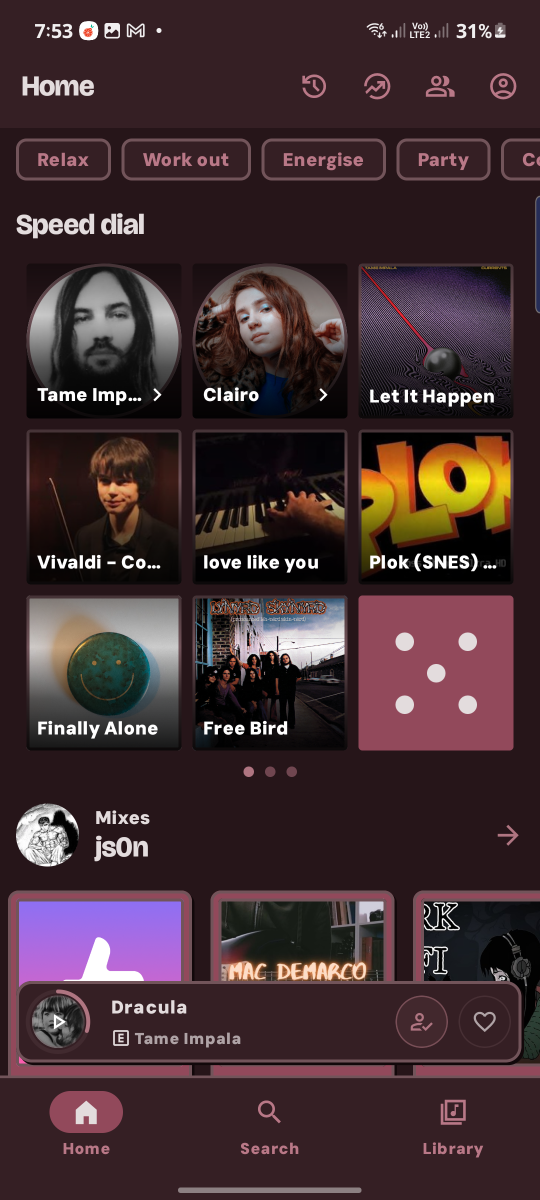
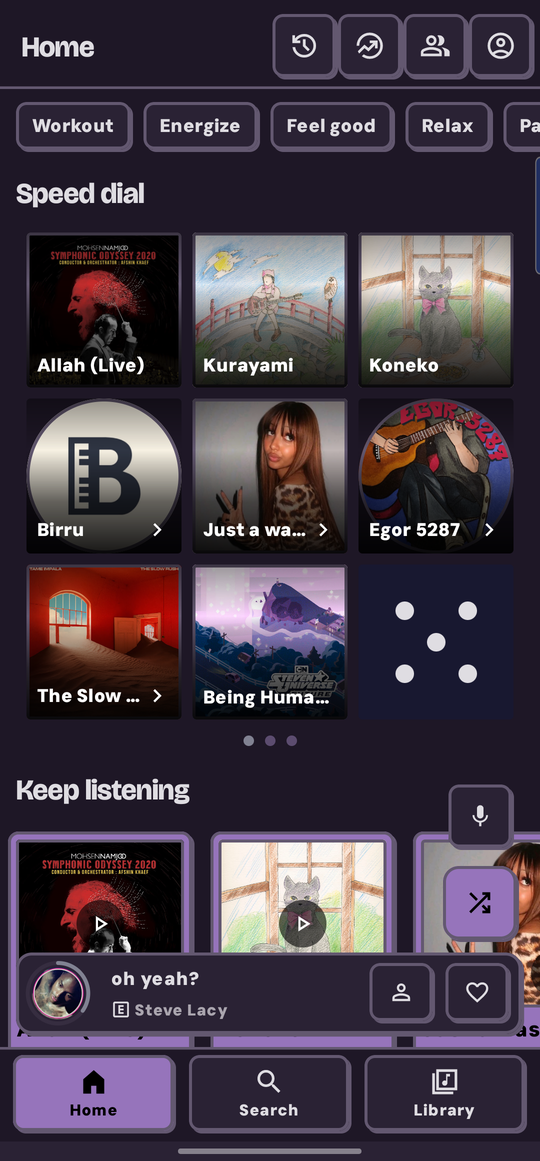
feat: new mark, and screenshots that match the app
The old R was a flat glyph on a pink field - the one thing in the whole
project not wearing the design language it exists to show off. The mark
is now built the way every control in the app is: a flat face with a
hard, zero-blur shadow offset down and to the right. White R, black
shadow, nuclear's pink behind it.

Both the glyph and its shadow sit inside the 72dp safe zone, so no
launcher mask can clip either. The themed (monochrome) variant drops the
shadow, since a single tint cannot show one, and the black alternate
icon casts in the dark pink instead. Every raster size, the round
variants and the store icon are regenerated from the same geometry.

The screenshots were from before six rounds of changes - Material
switches, unframed app bar icons, the old playlist headers. Retaken on
device, cropped above the status bar, and there are eight now rather
than six: the library and a playlist header are worth showing, since
those were the screens that needed the most work.

Claude-Session: https://claude.ai/code/session_01BwVpTh3WhmrhVvFenUw4tU

diff --git a/README.md b/README.md
@@ -23,7 +23,7 @@ Nothing under the surface changed. Every feature is Metrolist's.
 <img src="assets/screenshots/01-home-light.png" width="24%" />
 <img src="assets/screenshots/02-home-dark.png" width="24%" />
 <img src="assets/screenshots/03-player.png" width="24%" />
-<img src="assets/screenshots/06-song-menu.png" width="24%" />
+<img src="assets/screenshots/05-playlist.png" width="24%" />
 </div>
 
 ---
@@ -59,11 +59,16 @@ The colours are ports of nuclear's own OKLCH values, converted to sRGB. The five
 **Default**, **Aurora**, **Ember**, **Lagoon** and **Arctic Moss** — are the same structure at
 five hues, exactly as nuclear builds them.
 
+<div align="center">
+<img src="assets/screenshots/04-library.png" width="32%" />
+<img src="assets/screenshots/06-song-menu.png" width="32%" />
+</div>
+
 ### Themes
 
 <div align="center">
-<img src="assets/screenshots/04-custom-theme.png" width="32%" />
-<img src="assets/screenshots/05-advanced-theme.png" width="32%" />
+<img src="assets/screenshots/07-theme.png" width="32%" />
+<img src="assets/screenshots/08-advanced-theme.png" width="32%" />
 </div>
 
 Beyond the five presets:
